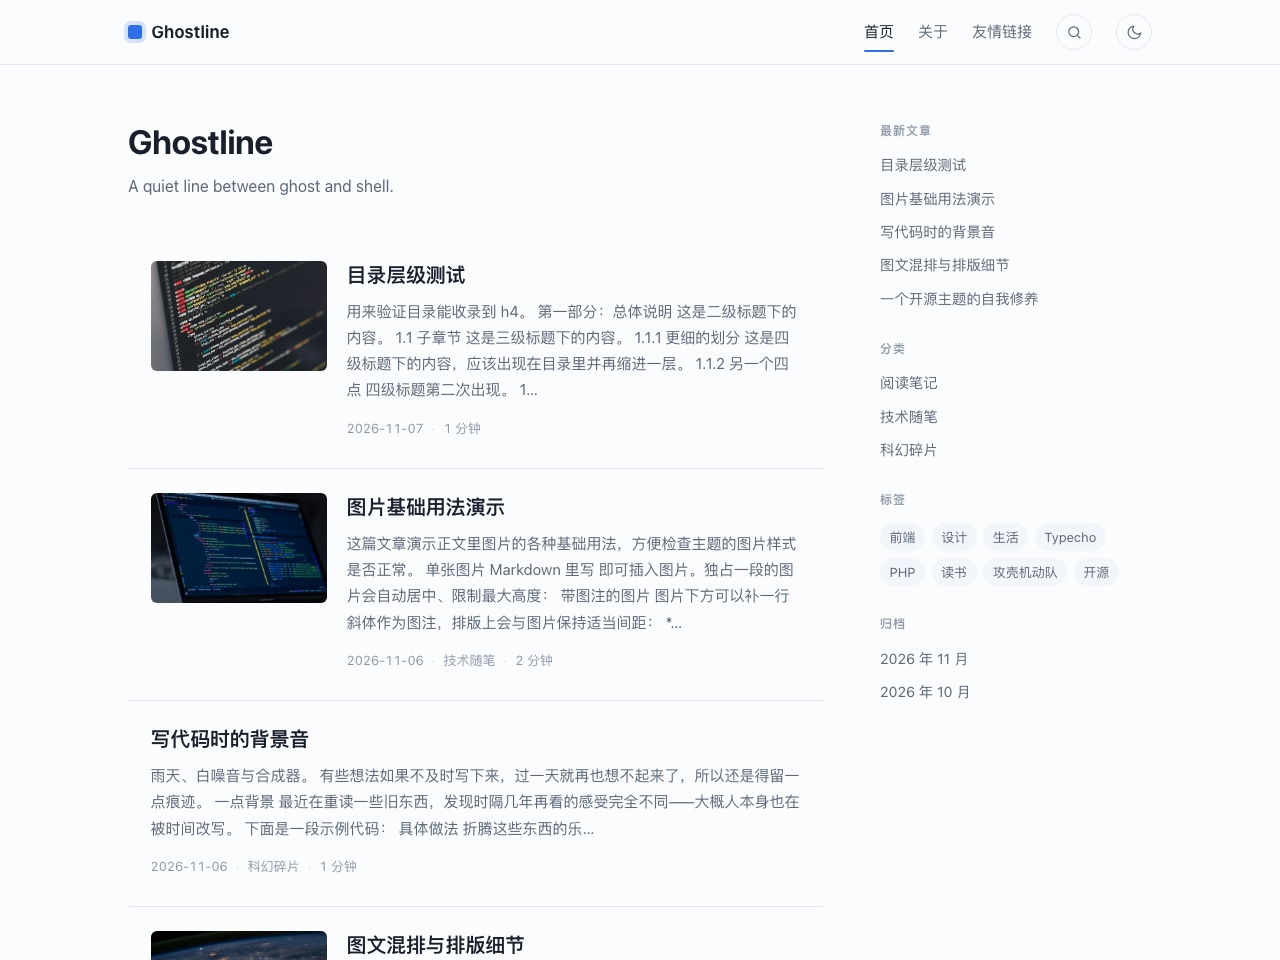
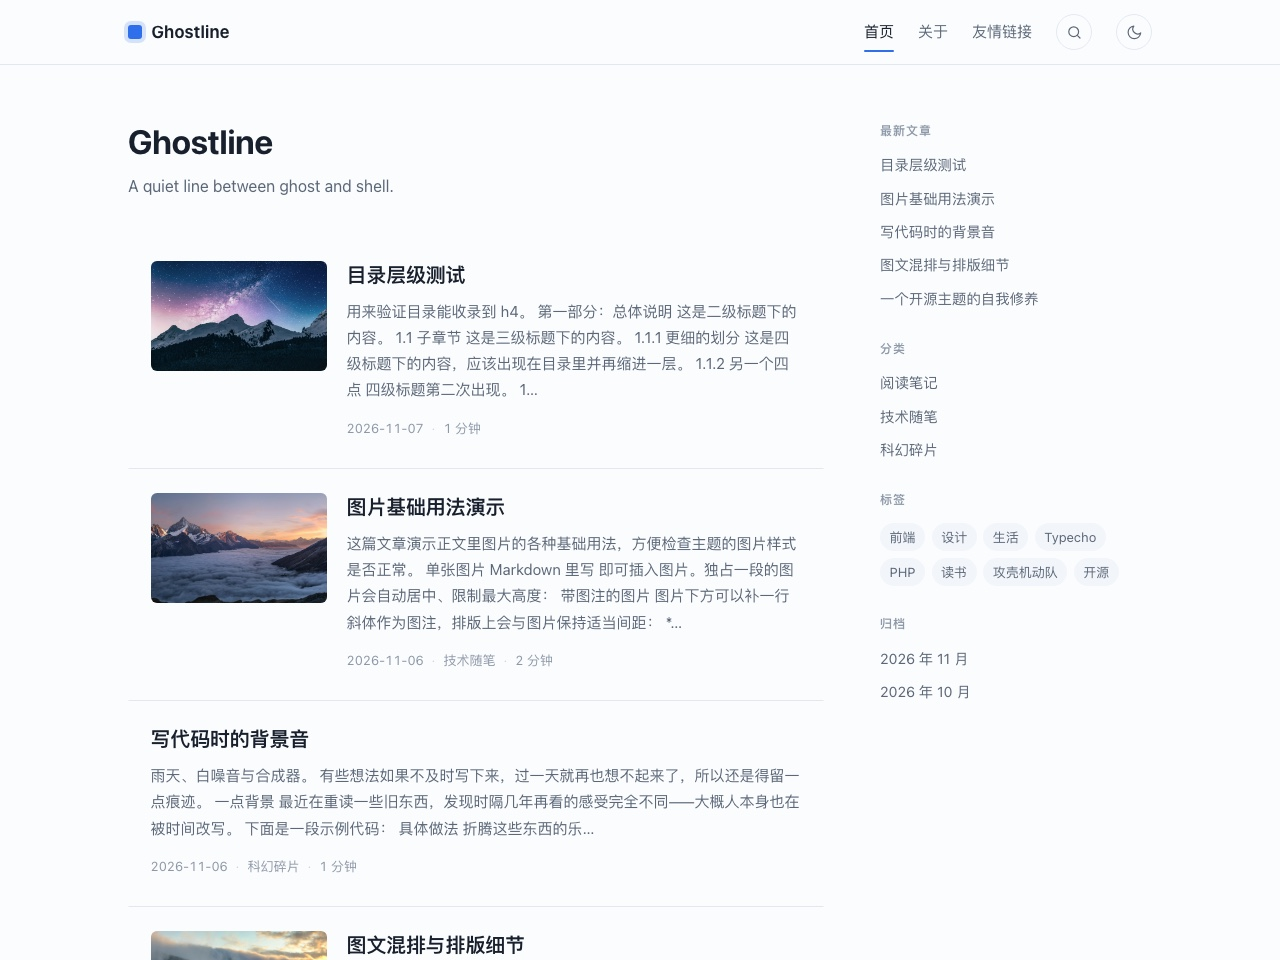
docs: 示例图改为风景照，README 增加明暗对比预览
- 示例文章配图全部换成 Unsplash 风景照（雪山云海、星空银河、
  山谷云海、山峦晨雾、森林小径），更贴近真实博客观感
- 新增 docs/preview-light.jpg 与 docs/preview-dark.jpg，
  README 顶部以并排表格展示明暗两种主题
- 重新生成主题截图
- seed-images.php 同步更新图片引用与封面配置

Changed region(s): [[0.0938, 0.25, 0.2812, 0.4062], [0.0938, 0.5, 0.2812, 0.625], [0.0938, 0.9688, 0.2812, 1.0]]

diff --git a/README.md b/README.md
@@ -5,7 +5,9 @@
 一个为 [Typecho](https://typecho.org) 写的博客主题：现代、简洁、克制，带一点点冷色调的科幻气质。
 名字来自《攻壳机动队》的 *Ghost in the Shell*。
 
-![Ghostline](usr/themes/ghostline/screenshot.jpg)
+| 浅色 | 深色 |
+| :---: | :---: |
+| ![浅色预览](docs/preview-light.jpg) | ![深色预览](docs/preview-dark.jpg) |
 
 ## 特性
 
